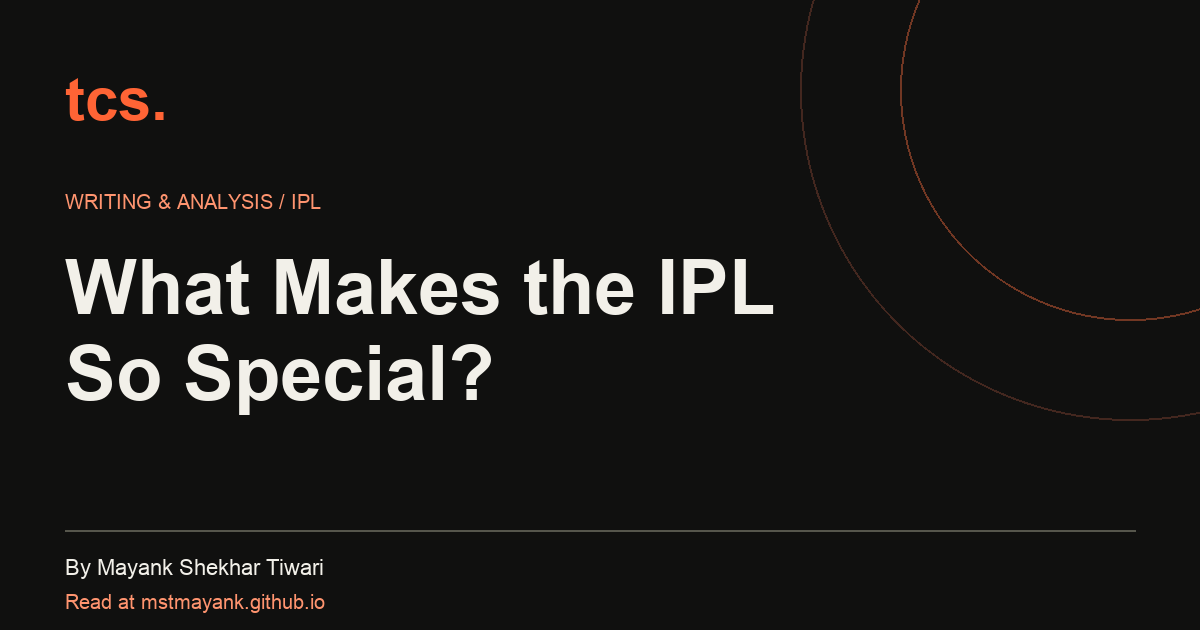
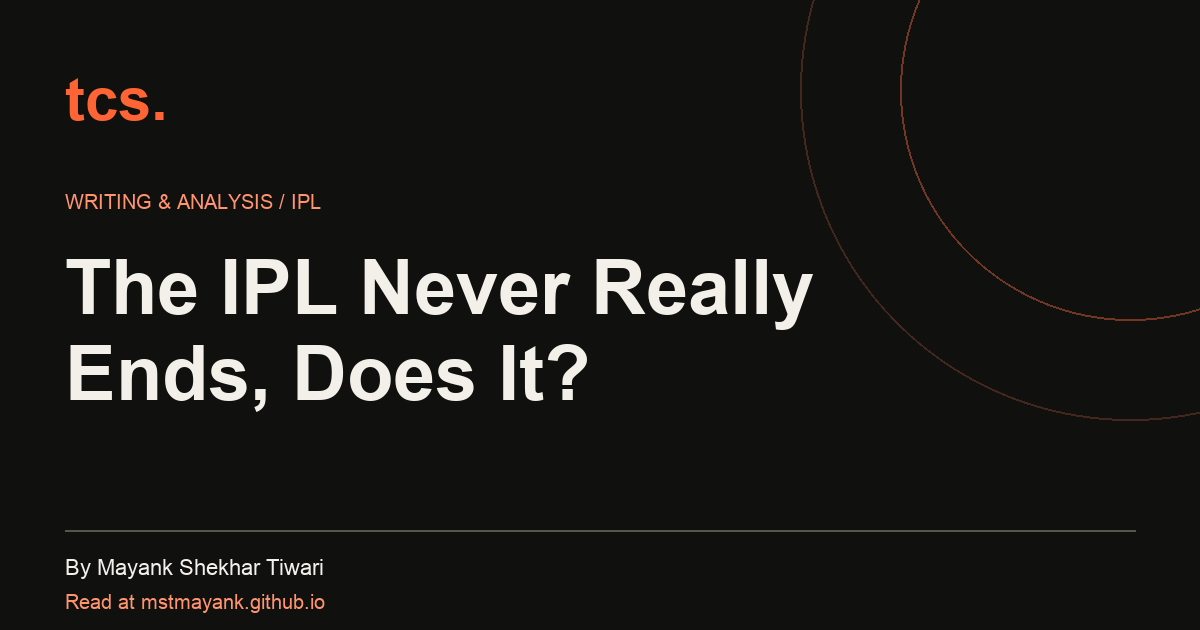
Replace IPL essay with revised draft

Changed region(s): [[0.0308, 0.3921, 0.6783, 0.5429], [0.0617, 0.5429, 0.4933, 0.6635]]

diff --git a/what-makes-the-ipl-so-special.html b/what-makes-the-ipl-so-special.html
@@ -1,24 +1,21 @@
 <!doctype html>
-<html lang="en"><head><meta charset="utf-8"><meta name="viewport" content="width=device-width,initial-scale=1"><title>What Makes the IPL So Special? — The Cricket Space</title><meta name="description" content="The IPL has turned fans into analysts, critics, scouts, and occasionally, imaginary franchise owners. An essay by Mayank Shekhar Tiwari."><meta property="og:title" content="What Makes the IPL So Special?"><meta property="og:description" content="The IPL is a year-round conversation. An essay by Mayank Shekhar Tiwari."><meta property="og:type" content="article"><meta property="og:url" content="https://mstmayank.github.io/what-makes-the-ipl-so-special.html"><meta property="og:image" content="https://mstmayank.github.io/ipl-link-preview.png"><meta property="og:image:width" content="1200"><meta property="og:image:height" content="630"><meta name="twitter:card" content="summary_large_image"><meta name="twitter:image" content="https://mstmayank.github.io/ipl-link-preview.png"><link rel="canonical" href="https://mstmayank.github.io/what-makes-the-ipl-so-special.html"><style>
+<html lang="en"><head><meta charset="utf-8"><meta name="viewport" content="width=device-width,initial-scale=1"><title>The IPL Never Really Ends, Does It? — The Cricket Space</title><meta name="description" content="How IPL trade rumours keep fans debating team combinations long before the first ball. An essay by Mayank Shekhar Tiwari."><meta property="og:title" content="The IPL Never Really Ends, Does It?"><meta property="og:description" content="The IPL is a year-round conversation. An essay by Mayank Shekhar Tiwari."><meta property="og:type" content="article"><meta property="og:url" content="https://mstmayank.github.io/what-makes-the-ipl-so-special.html"><meta property="og:image" content="https://mstmayank.github.io/ipl-link-preview.png"><meta property="og:image:width" content="1200"><meta property="og:image:height" content="630"><meta name="twitter:card" content="summary_large_image"><meta name="twitter:image" content="https://mstmayank.github.io/ipl-link-preview.png"><link rel="canonical" href="https://mstmayank.github.io/what-makes-the-ipl-so-special.html"><style>
 @import url('https://fonts.googleapis.com/css2?family=Manrope:wght@400;500;600;700&family=Space+Grotesk:wght@400;500;600&display=swap');
 *{box-sizing:border-box}body{margin:0;background:#10100f;color:#f2f0e9;font-family:Manrope,sans-serif}a{color:inherit;text-decoration:none}header{padding:25px 6%;border-bottom:1px solid #ffffff26;display:flex;justify-content:space-between;align-items:center}header a:first-child{font:600 25px 'Space Grotesk';letter-spacing:-1px}header span{color:#ff6435}header a:last-child{font-size:12px}main{max-width:820px;margin:auto;padding:70px 28px 90px}.label{color:#ff875c;font-size:11px;text-transform:uppercase;letter-spacing:2px}h1{font:500 clamp(44px,7vw,76px)/1.04 'Space Grotesk';letter-spacing:-.055em;margin:25px 0}.byline{font-size:12px;color:#a5a59b;border-bottom:1px solid #ffffff26;padding-bottom:30px;margin-bottom:36px}.prose p{font-size:clamp(16px,2vw,19px);line-height:1.95;margin:0 0 25px}.prose p:first-child{font-size:clamp(20px,3vw,25px);line-height:1.6}.prose p:last-child{border-left:3px solid #ff6435;padding-left:24px;font-family:'Space Grotesk';font-size:24px;line-height:1.6}.bottom{margin-top:45px;border-top:1px solid #ffffff26;padding-top:25px;display:flex;flex-wrap:wrap;gap:20px;justify-content:space-between}button{font:inherit;font-size:12px;background:#ff6435;color:#10100f;border:0;border-radius:30px;padding:13px 22px;cursor:pointer}.bottom a{font-size:12px;align-self:center}#status{font-size:12px;color:#a5a59b}a:focus-visible,button:focus-visible{outline:2px solid #ff6435;outline-offset:5px}@media(max-width:480px){main{padding-top:45px}header a:first-child{font-size:21px}}
-.share-actions{display:flex;flex-wrap:wrap;gap:12px;align-items:center}.download-card{display:inline-block;border:1px solid #ffffff45;border-radius:30px;padding:13px 20px;font-size:12px}.bottom{align-items:center}.share-help{color:#a5a59b;font-size:12px;line-height:1.7}</style></head><body><header><a href="./" aria-label="The Cricket Space home">tcs<span>.</span></a><a href="./#writing">All writing ↗</a></header><main><article><div class="label">Writing &amp; Analysis / IPL</div><h1>What Makes the IPL So Special?</h1><div class="byline">By Mayank Shekhar Tiwari · 6 November 2026 · 3 min read</div><div class="prose"><p>The number of player trade and team-switching rumours that have surfaced in just the last week is insane.</p>
-<p>And strangely, that's one of the things I love most about the IPL.</p>
-<p>Not a single ball needs to be bowled for the league to dominate cricket conversations.</p>
-<p>One rumour emerges, and suddenly thousands of fans become team selectors. People start discussing possible playing XIs, questioning management decisions, calculating auction budgets, and debating whether losing one player could change the entire balance of a franchise.</p>
-<p>And the interesting part? Most of these moves haven't even happened yet.</p>
-<p>That's the beauty of the IPL. It has managed to make the business and strategy behind cricket almost as entertaining as the cricket itself.</p>
-<p>You begin to understand that building a successful team isn't simply about collecting the biggest names. It's about finding the right combinations, managing limited resources, identifying weaknesses, and sometimes making decisions that fans won't agree with.</p>
-<p>A player who means everything to one fanbase might be considered expendable by the management. A trade that looks terrible today might turn out to be a masterstroke six months later.</p>
-<p>And that's where the conversations become fascinating.</p>
-<p>Of course, not every rumour deserves to be believed. But the discussions they create reveal how deeply people understand and care about their teams.</p>
-<p>The IPL has turned fans into analysts, critics, scouts, and occasionally, imaginary franchise owners.</p>
-<p>We argue about decisions we have no control over, defend players who don't know we exist, and spend hours imagining combinations that may never take the field.</p>
-<p>And somehow, we enjoy every bit of it.</p>
-<p>Because the IPL is no longer just a two-month cricket tournament. It's a year-round conversation.</p>
+.share-actions{display:flex;flex-wrap:wrap;gap:12px;align-items:center}.download-card{display:inline-block;border:1px solid #ffffff45;border-radius:30px;padding:13px 20px;font-size:12px}.bottom{align-items:center}.share-help{color:#a5a59b;font-size:12px;line-height:1.7}</style></head><body><header><a href="./" aria-label="The Cricket Space home">tcs<span>.</span></a><a href="./#writing">All writing ↗</a></header><main><article><div class="label">Writing &amp; Analysis / IPL</div><h1>The IPL Never Really Ends, Does It?</h1><div class="byline">By Mayank Shekhar Tiwari · 6 November 2026 · 3 min read</div><div class="prose"><p>The number of IPL trade rumours I've come across in the last week is ridiculous. And I won't lie, I absolutely love this part of the IPL.</p>
+<p>We haven't even reached the auction, let alone the actual tournament, and people are already fighting over team combinations.</p>
+<p>Look at the discussions around CSK, Mumbai Indians and Punjab Kings. Every other day there's a new rumour, and with it comes another debate. Why would they trade him? Who's going to replace him? What exactly is the management thinking?</p>
+<p>I've caught myself spending more time thinking about these possible trades than some actual matches.</p>
+<p>And that's something I find quite fascinating about the IPL.</p>
+<p>A few years ago, I barely cared about things like auction purses, retention strategies or squad balance. Now I find myself looking at a rumoured trade and wondering whether it actually solves a team's problem.</p>
+<p>Because a good player isn't necessarily the right player for every team.</p>
+<p>There's also this strange attachment we have to certain players. We want franchises to be practical with their decisions, but the moment they consider letting go of someone we love, all that practicality goes out of the window.</p>
+<p>And I get it. Cricket isn't always about logic.</p>
+<p>Half these rumours might never turn into actual deals. But look at how much they've already given us to talk about.</p>
+<p>That's probably what I enjoy most about the IPL. Even when there's no cricket happening, there's always something happening around cricket.</p>
 <p>The matches may last a few hours. The season may last two months. But for the fans, the IPL never really ends.</p></div></article><div class="bottom"><a href="./#writing">← Back to Writing &amp; Analysis</a><div class="share-actions"><button id="share" type="button">Share article ↗</button><button id="copy-link" type="button">Copy article link</button><button id="share-story" type="button">Share story card ↗</button><a class="download-card" href="ipl-story-card.png" download="tcs-ipl-story.png">Download story card ↓</a></div></div><p class="share-help">For Instagram Stories, upload the card and paste the article URL into a Link sticker. For a tappable link in WhatsApp Status, paste the URL into a text status.</p><p id="status" aria-live="polite"></p></main><script>
 const articleUrl = 'https://mstmayank.github.io/what-makes-the-ipl-so-special.html';
-const articleTitle = 'What Makes the IPL So Special?';
+const articleTitle = 'The IPL Never Really Ends, Does It?';
 const status = document.getElementById('status');
 let storyFile = null;
 fetch('ipl-story-card.png')

diff --git a/index.html b/index.html
@@ -80,7 +80,7 @@
     <div><h2 id="writing-title">Writing &amp; Analysis</h2></div>
     <p>Cricket observations, match breakdowns, and the decisions that shape a game.</p>
   </div>
-  <a class="featured-essay reveal" href="what-makes-the-ipl-so-special.html"><span class="essay-image"><img src="ipl-match.jpg" alt="" width="960" height="540" loading="lazy"></span><div><span class="label">Latest article / IPL</span><h3>What Makes the IPL So Special?</h3><p>The IPL has turned fans into analysts, critics, scouts, and occasionally, imaginary franchise owners.</p><span class="essay-meta">By Mayank Shekhar Tiwari · 3 min read <b>Read article <span class="essay-arrow" aria-hidden="true">↗</span></b></span></div></a>
+  <a class="featured-essay reveal" href="what-makes-the-ipl-so-special.html"><span class="essay-image"><img src="ipl-match.jpg" alt="" width="960" height="540" loading="lazy"></span><div><span class="label">Latest article / IPL</span><h3>The IPL Never Really Ends, Does It?</h3><p>How IPL trade rumours keep fans debating team combinations long before the first ball.</p><span class="essay-meta">By Mayank Shekhar Tiwari · 3 min read <b>Read article <span class="essay-arrow" aria-hidden="true">↗</span></b></span></div></a>
   <div class="writing-grid">
     <div><span class="label">01 / Short reads</span><h3>Quick Takes</h3><p>One moment or idea from a match, in a few paragraphs.</p></div>
     <div><span class="label">02 / Long reads</span><h3>Deep Dives</h3><p>Closer looks at tactics, player form, and team selection.</p></div>
